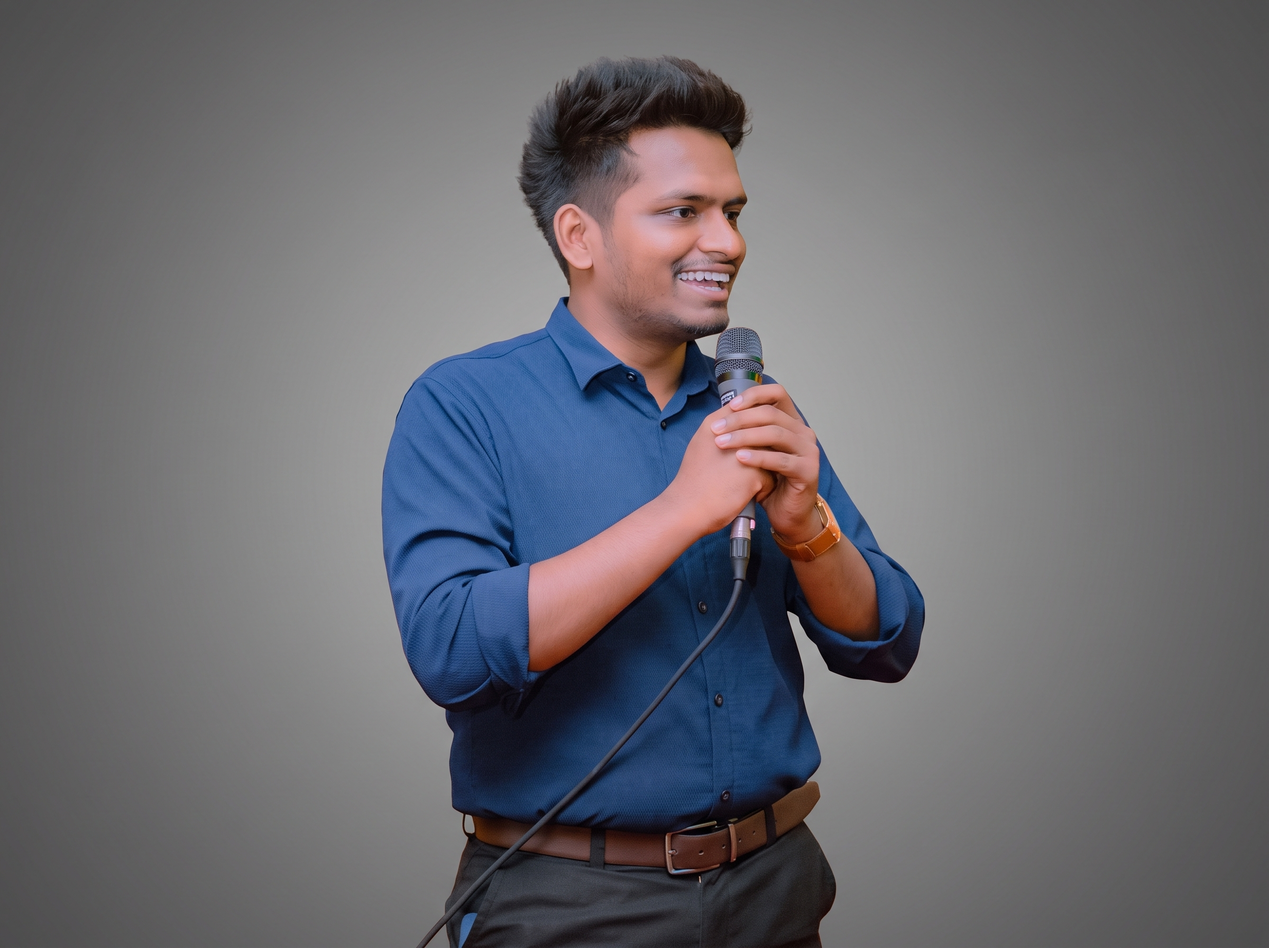
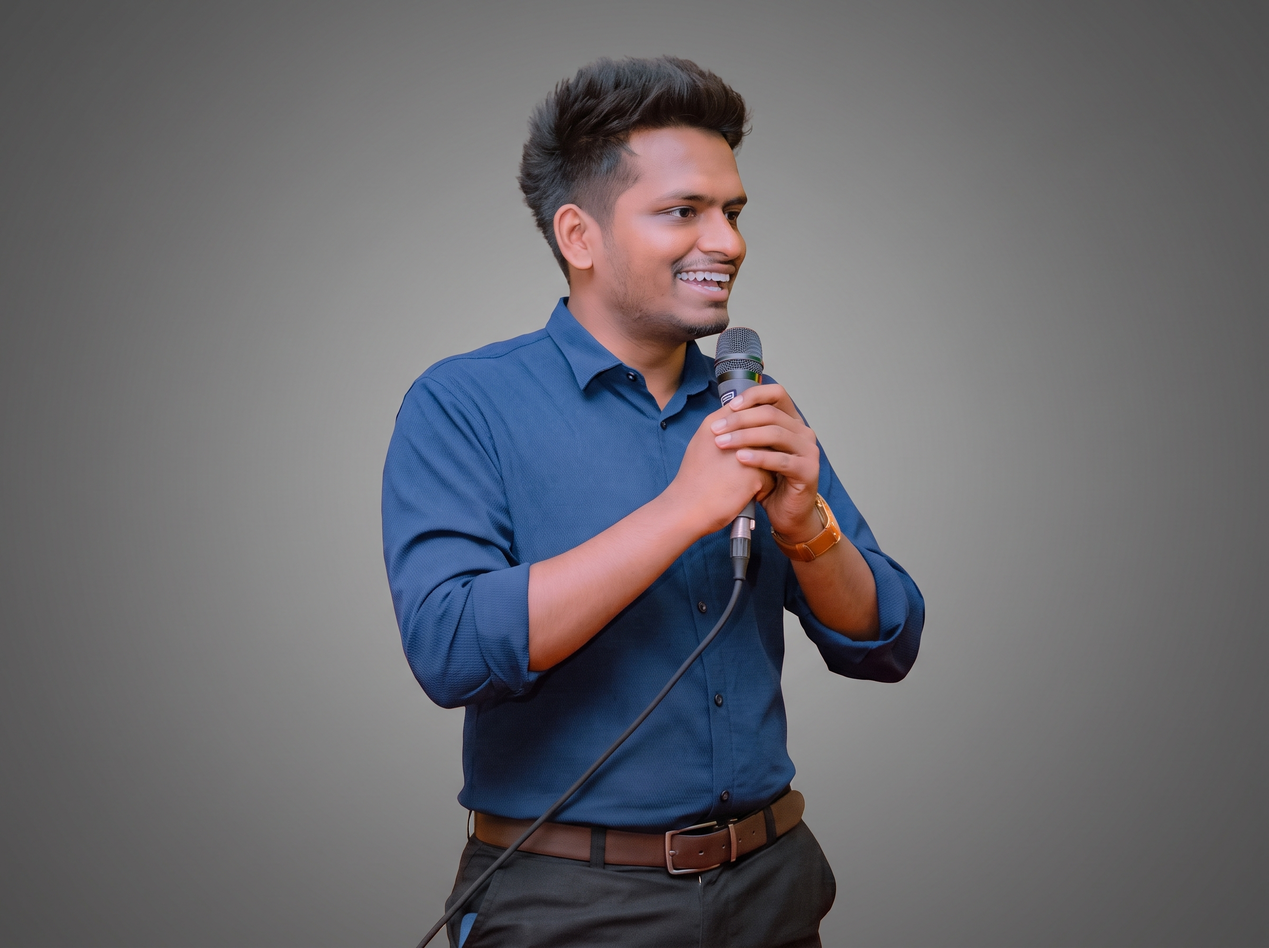
Just push

diff --git a/css/style.css b/css/style.css
@@ -126,9 +126,9 @@ h1, h2, h3 {
   height: 200px;
   border-radius: 50%;        /* makes the square image a perfect circle */
   object-fit: cover;         /* crops the photo to fill the circle without stretching */
-  border: 4px solid #030303; /* orange accent ring, matches site theme */
+  border: 4px solid #00000e; /* orange accent ring, matches site theme */
   margin-bottom: 1.5rem;
-  box-shadow: 0 4px 20px rgba(0,0,0,0.3);
+  box-shadow: 0 4px 20px #85fb07;
   position: relative;
   z-index: 2;                /* above image, overlay, and particle canvas */
 }
@@ -586,4 +586,42 @@ img {
   width: 100%;
   height: 100%;
   z-index: 0; /* behind photo/text */
+}
+
+/* ============================
+   TO make Nav Bar name tag clickable and redirect to home page
+   ============================ */
+  .logo {
+  color: #fff;
+  font-size: 1.3rem;
+  font-weight: bold;
+  text-decoration: none; /* removes the default underline that <a> tags get */
+}
+
+/* ============================
+   NAV LINK HOVER + ACTIVE STATE
+   Rounded highlight box appears behind the link on hover,
+   with smooth fade/scale transition
+   ============================ */
+.nav-links a {
+  color: #fff;
+  text-decoration: none;
+  font-size: 1rem;
+  padding: 0.5rem 1rem;
+  border-radius: 6px;
+  transition: background-color 0.25s ease, color 0.25s ease;
+}
+
+.nav-links a:hover {
+  background-color: rgba(234, 244, 48, 0.15); /* soft orange tint, not full color */
+  color: #85fb07;
+}
+
+/* Marks the CURRENT page's link as permanently highlighted.
+   Add class="active" manually to the matching <a> in navbar.js
+   on each page (see below) */
+.nav-links a.active {
+  background-color: rgba(244, 162, 97, 0.2);
+  color: #f4a261;
+  font-weight: bold;
 }

diff --git a/js/navbar.js b/js/navbar.js
@@ -1,6 +1,6 @@
 document.write(`
   <nav class="navbar">
-    <div class="logo">Lakshan U. Deshapriya</div>
+    <a href="index.html" class="logo">Lakshan U. Deshapriya</a>
     <ul class="nav-links">
       <li><a href="index.html">Home</a></li>
       <li><a href="about.html">About</a></li>
